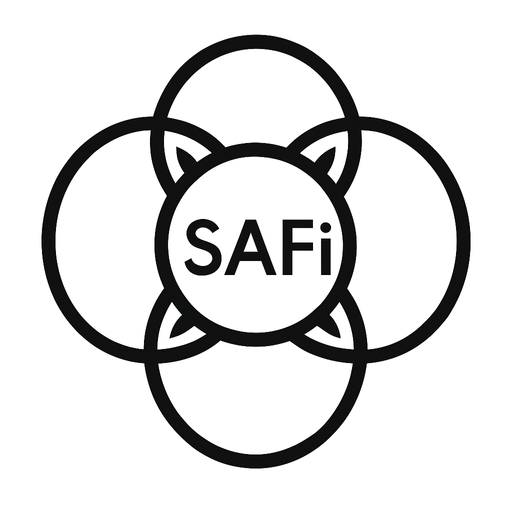
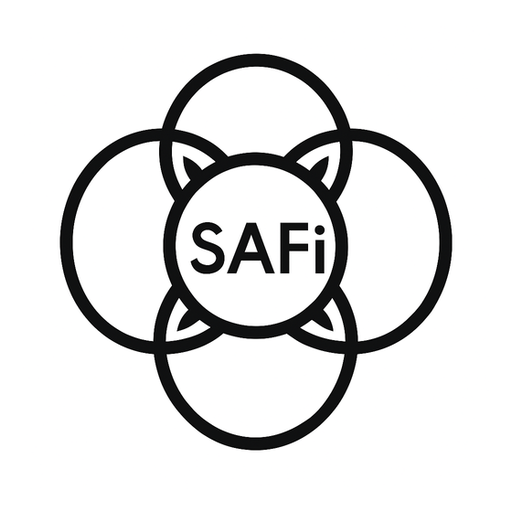
pwa: inset the mark into the maskable safe zone, white splash to match
Two follow-ups to 74c2cb5, both consequences of the new mark rather than
defects in it.

The four petal tips clipped under an Android launcher mask. The artwork
reached 222px from centre against a 205px safe radius, putting 12.8% of the
ink outside it. Scaled to 468/512 and re-centred on white: furthest ink is
now 203.2px, nothing outside the circle, and the mark is otherwise
untouched. Still one 512 file serving any, maskable and apple-touch-icon,
still colour type 2, so the single-icon decision from 2026-08-11 holds.

background_color goes back to #ffffff. It was #ffffff until c86889d set it
to #333333 for the dark tile; the mark now sits on white again, so the old
value flashed dark grey behind a white icon on every launch.

test_the_splash_matches_the_mark used to hard-code "#333333". That literal
went stale the instant the mark changed and failed as a stale assertion
rather than as the real defect, which is the least useful way for a test to
break. It now decodes pixel (0,0) out of the icon the manifest names and
compares against that, so the splash can never drift from its own mark
again. Reading the first pixel is filter-agnostic: no left or upper
neighbour means every PNG filter predicts zero there, so the stored bytes
are the raw colour whatever the encoder picked. Mutation-checked by setting
the colour back to #333333, which now reports the mismatch against the
icon's real field instead of a number in the test.
[…]

Changed region(s): [[0.0625, 0.0625, 0.9375, 0.9375]]

diff --git a/tests/test_web_app_manifest.py b/tests/test_web_app_manifest.py
@@ -60,6 +60,18 @@ class TheManifestIsInstallable(unittest.TestCase):
         self.assertIn('href="manifest.json"', INDEX)
 
 
+def _chunk_offsets(raw, kind):
+    """Byte offsets of every chunk of `kind` in a PNG, for reading raw pixels
+    without pulling in an image library the test environment need not have."""
+    from struct import unpack
+    i = 8
+    while i < len(raw) - 8:
+        length = unpack(">I", raw[i:i + 4])[0]
+        if raw[i + 4:i + 8] == kind:
+            yield i
+        i += 12 + length
+
+
 class EveryIconItNamesExists(unittest.TestCase):
     """A manifest naming a missing icon fails silently in the browser — the
     install simply offers a blank tile, with nothing in the console."""
@@ -126,9 +138,35 @@ class EveryIconItNamesExists(unittest.TestCase):
         self.assertNotEqual(head[25], 6, "the icon must not have alpha")
 
     def test_the_splash_matches_the_mark(self):
-        """background_color paints the launch screen behind the icon; the
-        mark is dark (#333), so a white splash flashes white first."""
-        self.assertEqual(MANIFEST["background_color"].lower(), "#333333")
+        """background_color paints the launch screen behind the icon, so a
+        mismatch flashes the wrong colour before the icon appears.
+
+        Read out of the icon itself rather than hard-coded. The literal used
+        to be "#333333" for the dark tile, went stale the moment the mark
+        changed to the four-petal wordmark on white (2026-08-25), and failed
+        as a stale assertion rather than as the real defect. Deriving it means
+        the next mark cannot drift from its own splash.
+        """
+        import zlib
+        from struct import unpack
+        raw = (PUBLIC / MANIFEST["icons"][0]["src"].lstrip("/")).read_bytes()
+        w, h = unpack(">II", raw[16:24])
+        # Decode enough of the PNG to read pixel (0, 0): the icon is full-bleed,
+        # so its corner IS the field colour the splash has to match.
+        idat = b"".join(
+            raw[i + 8:i + 8 + unpack(">I", raw[i:i + 4])[0]]
+            for i in _chunk_offsets(raw, b"IDAT")
+        )
+        line = zlib.decompress(idat)[:4]
+        # line[0] is the row's filter type, and it does not matter here: for
+        # the very FIRST pixel every PNG filter (None/Sub/Up/Average/Paeth)
+        # has no left or upper neighbour, so each predicts zero and the stored
+        # bytes are the raw colour. Reading them is valid whatever the encoder
+        # chose. This icon ships as filter type 1.
+        corner = "#%02x%02x%02x" % (line[1], line[2], line[3])
+        self.assertEqual(MANIFEST["background_color"].lower(), corner,
+                         f"splash {MANIFEST['background_color']} does not match "
+                         f"the icon's own field {corner}")
 
 
 class NothingIsCached(unittest.TestCase):
